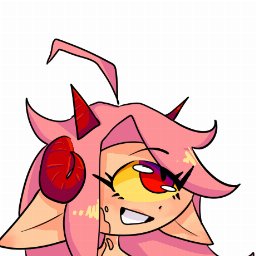
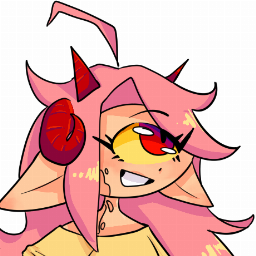
Automatically shift portraits down if there is transparent space at the top

diff --git a/scripts/create_portraits.php b/scripts/create_portraits.php
@@ -66,6 +66,28 @@ foreach ($iterator as $fileInfo) {
     $centerY = floor($centerYPercentage * $height);
     $cropSize = $centerY * 2;
 
+    // Move center down so the top is aligned with the first non-transparent part of the image
+    $foundX = 0;
+    $foundY = 0;
+    for ($y = 0; $y < $height && !$foundX; $y++){
+        for ($x = 0; $x < $width && !$foundX; $x++){
+            $pixel = imagecolorat($image, $x, $y);
+            $alpha = ($pixel & 0x7F000000) >> 24;
+            $colors = imagecolorsforindex($image, $pixel);
+            $a = $colors['alpha'];
+            if ($alpha != 127) {
+                $foundX = $x;
+                $foundY = $y;
+            }
+        }
+    }
+    if (!$foundX) {
+        echo " Could not find a non-transparent pixel in $filename\n";
+    } else if ($foundY > 0) {
+        echo " Found top at $foundX,$foundY, shifting down\n";
+        $centerY += $foundY;
+    }
+
     // Expand horizontally if needed
     $overflowLeft = floor($cropSize / 2) - $centerX;
     $overflowRight = $centerX + floor($cropSize / 2) - $width;
